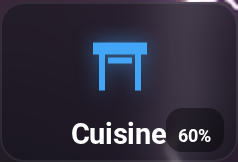
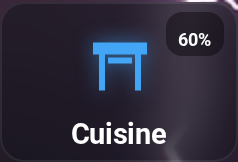
feat(glass_cover): move the position badge to the top-right corner
At the bottom right it sat on top of the name, so any entity whose name
did not fit the 119px card read as "Porte fen*fermé" or "Cuis*ouverture".
The top right is free: the icon sits low enough that even the widest
label, `ouverture`, clears it.

Captured against the live dashboard after applying the same change to its
config, so the three cover images show the new placement and the names
are readable end to end.

Changed region(s): [[0.6765, 0.0617, 0.9412, 0.3704], [0.6765, 0.6481, 0.8824, 0.9568]]

diff --git a/README.md b/README.md
@@ -212,9 +212,11 @@ Several of them inside a `glass_container` row:
 ![state_on_off row](https://raw.githubusercontent.com/jbsky/ha-glass-dashboard/main/docs/screenshots/components/state_on_off.png)
 
 #### `glass_cover`
-Shutter/blind control with animation and position badge. The badge, the icon color and the left
-border all follow the current position — `fermé` at 0 %, `ouvert` at 100 %, the percentage in
-between, and `ouverture` / `fermeture` (with a pulsing icon) while the shutter is moving.
+Shutter/blind control with animation and position badge. The badge sits in the top-right corner
+— out of the way of the name, which long entity names used to run into — and it follows the
+current position along with the icon color and the left border: `fermé` at 0 %, `ouvert` at
+100 %, the percentage in between, and `ouverture` / `fermeture` (with a pulsing icon) while the
+shutter is moving.
 
 | part-way open | opening | closed |
 |:---:|:---:|:---:|
